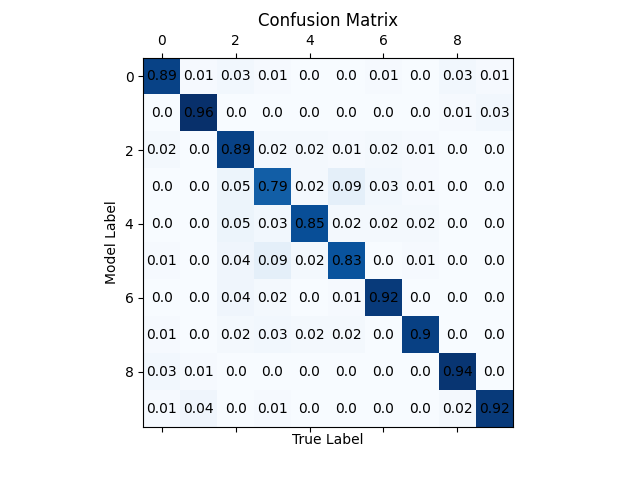
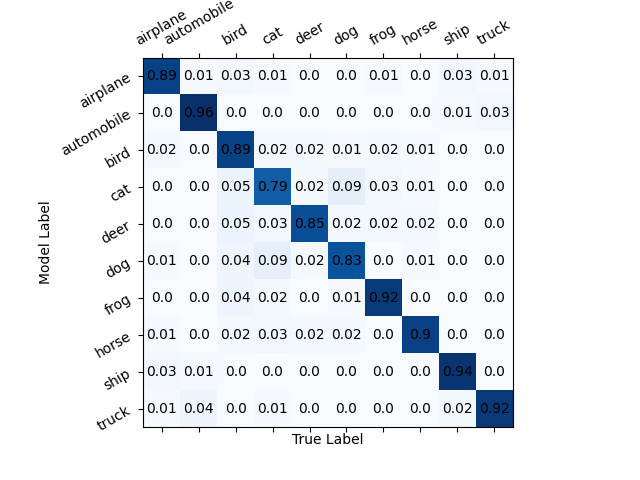
better confusion

diff --git a/plot.py b/plot.py
@@ -1,4 +1,4 @@
-from matplotlib import pyplot as plt
+from matplotlib import pyplot as plt, ticker
 from sklearn.metrics import plot_confusion_matrix
 import torch
 from config import Config
@@ -108,7 +108,9 @@ def plot_confusion_matrix(dir_path, save_path):
     ax.set_title('Confusion Matrix')
     ax.set_ylabel('Model Label')
     ax.set_xlabel('True Label')
-    # ax.set_xticklabels(train_classes)
+    ax.set_xticklabels(train_classes)
+    ax.set_yticklabels(train_classes)
+        
     ax.matshow(confusion_matrix, cmap=plt.cm.Blues)
 
     for i in range(10):
@@ -117,7 +119,10 @@ def plot_confusion_matrix(dir_path, save_path):
             ax.text(i, j, str(c), va='center', ha='center')
     
     # plt.matshow(confusion_matrix)
-    # plt.setp(ax.get_xticklabels(), rotation=30, horizontalalignment='right')
+    plt.xticks(np.arange(0, 10, 1))
+    plt.yticks(np.arange(0, 10, 1))
+    plt.setp(ax.get_xticklabels(), rotation=30, visible=True)
+    plt.setp(ax.get_yticklabels(), rotation=30, visible=True)
     plt.savefig(os.path.join(save_path, 'confusion.png'))
     
 if __name__ == '__main__':
